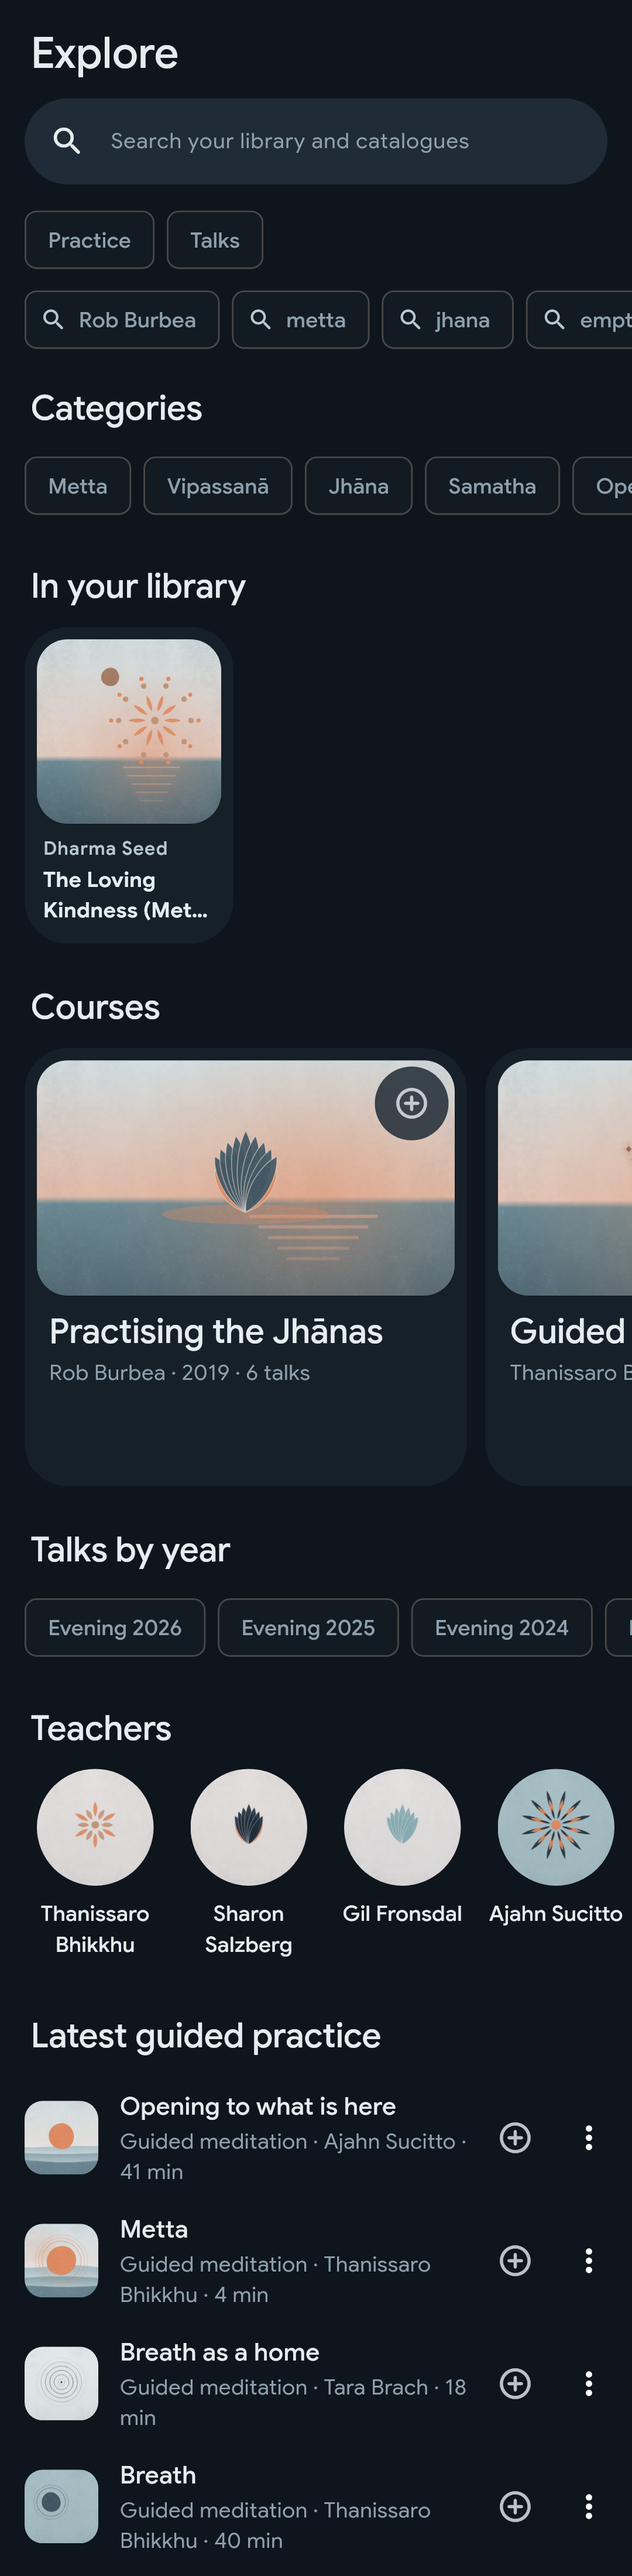
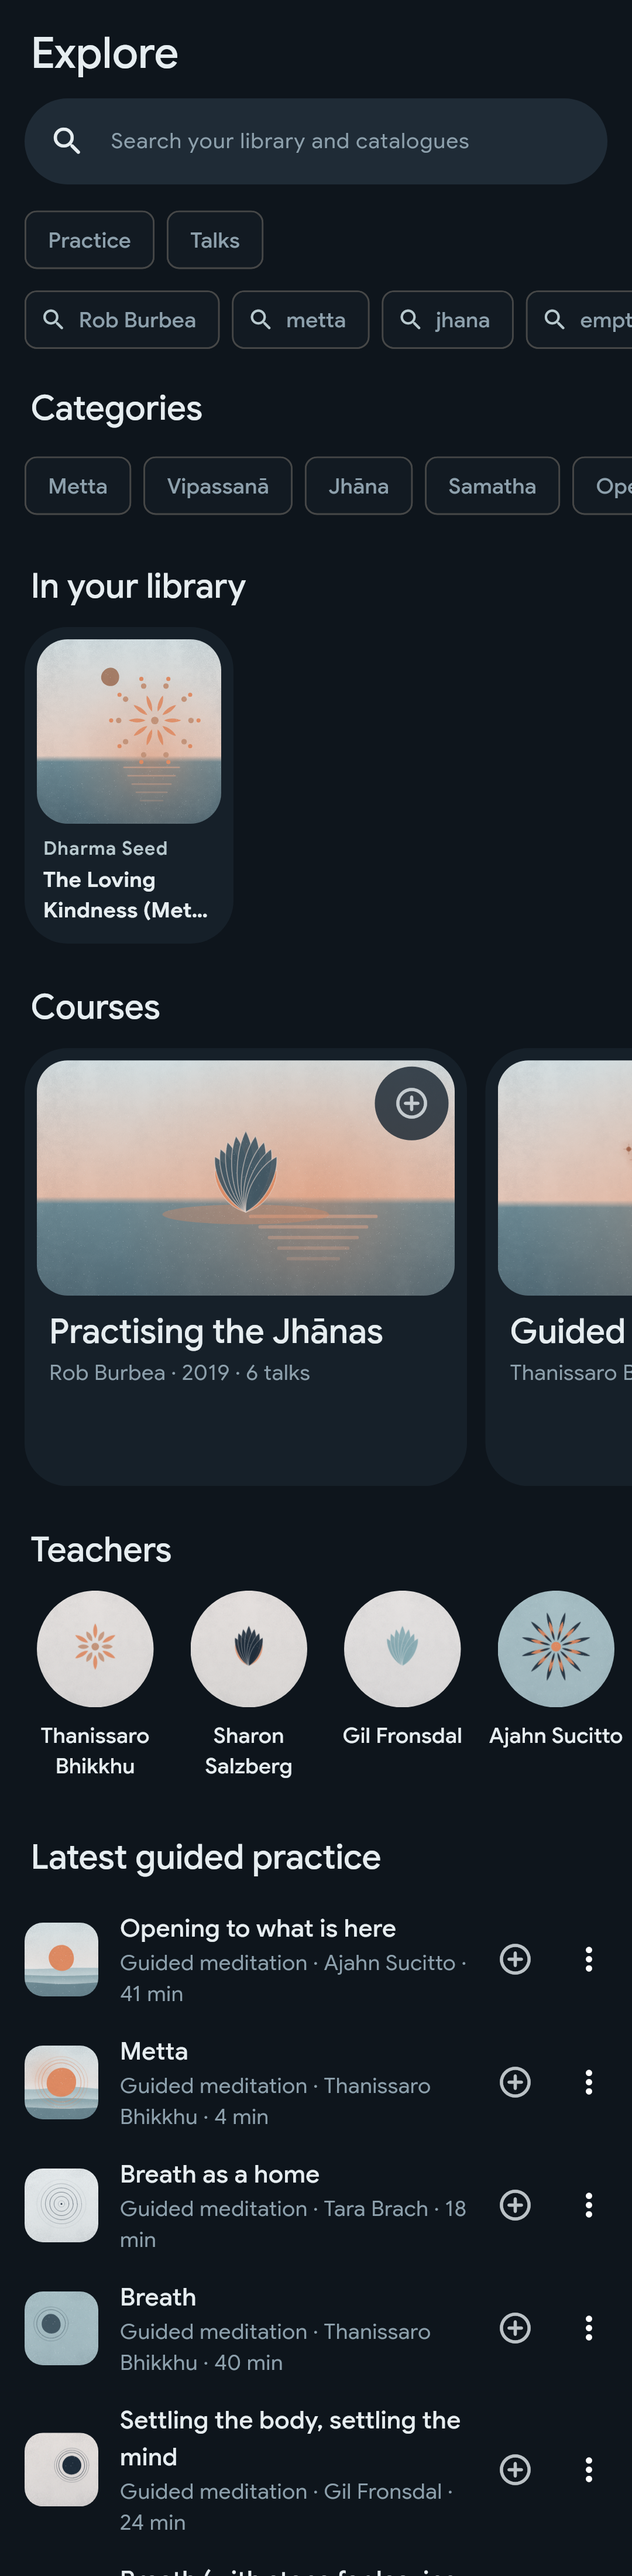
feat(dhammatalks): latest ten on the teacher page, compact year rows; screenshots
Verified: analyze clean; explore/source/merge suites pass; screenshots
teacher-thanissaro-{closed,open}-* show the page and one opened year.

diff --git a/test/screenshots/design_screenshots_test.dart b/test/screenshots/design_screenshots_test.dart
@@ -17,6 +17,8 @@ import 'package:medito/services/identity/palettes.dart';
 import 'package:medito/models/pack/pack_model.dart';
 import 'package:medito/providers/home/continue_provider.dart';
 import 'package:medito/services/dhammatalks/dhammatalks_catalogue.dart';
+import 'package:medito/services/dhammatalks/dhammatalks_ids.dart';
+import 'package:medito/views/teacher/teacher_view.dart';
 import 'package:medito/services/dhammatalks/dhammatalks_source.dart';
 import 'package:medito/services/dharma_seed/dharma_seed_database.dart';
 import 'package:medito/views/explore/widgets/explore_view.dart';
@@ -950,6 +952,49 @@ void main() {
       tester.view.physicalSize = const Size(1080, 4400);
       await DharmaSeedTestApp.settle(tester);
       await _capture(tester, '$name-full');
+    }, skip: !_enabled);
+
+    // Thanissaro Bhikkhu's page with the real bundled snapshot: the archive
+    // as closed years, then one year open.
+    testWidgets('Thanissaro page with the archive, ${brightness.name}', (
+      tester,
+    ) async {
+      final app = await DharmaSeedTestApp.create(tester, seed: false);
+      final snapshot = DtCatalogue.fromJson(
+        DtCatalogue.decode(
+          File('assets/dhammatalks/catalogue.json.gz').readAsBytesSync(),
+        ),
+      );
+      await app.pump(
+        tester,
+        _frame(brightness, const TeacherView(teacherId: dtTeacherId)),
+        dhammatalks: DhammatalksSource(
+          loadSnapshot: () async => snapshot,
+          library: app.library,
+        ),
+      );
+      await _phone(tester);
+      await DharmaSeedTestApp.settle(tester);
+      expect(tester.takeException(), isNull);
+      tester.view.physicalSize = const Size(1080, 4400);
+      await DharmaSeedTestApp.settle(tester);
+      await _capture(tester, 'teacher-thanissaro-closed-${brightness.name}');
+      final year = find.byKey(
+        ValueKey(
+          'archive_${dtYearId(DtChannel.evening, snapshot.years(DtChannel.evening).first)}',
+        ),
+      );
+      await tester.scrollUntilVisible(
+        year,
+        400,
+        scrollable: find.byType(Scrollable).first,
+      );
+      await tester.ensureVisible(year);
+      await tester.pump();
+      await tester.tap(year);
+      await DharmaSeedTestApp.settle(tester);
+      expect(tester.takeException(), isNull);
+      await _capture(tester, 'teacher-thanissaro-open-${brightness.name}');
     }, skip: !_enabled);
 
     for (final (name, page) in [

diff --git a/lib/services/dhammatalks/dhammatalks_source.dart b/lib/services/dhammatalks/dhammatalks_source.dart
@@ -425,11 +425,17 @@ class DhammatalksSource
     return CatalogueTeacherPage(
       teacher: _teacher(cat),
       courses: [for (final course in cat.courses) _courseItem(course)],
-      // The latest few; the rest is the archive, by year, opened on demand.
-      talks: [for (final talk in cat.talks.take(talkPage)) _talkItem(talk)],
+      // The latest ten, so the archive below them is not a long scroll away;
+      // the rest is the archive, by year, opened on demand.
+      talks: [
+        for (final talk in cat.talks.take(talkPage.clamp(0, _latestOnPage)))
+          _talkItem(talk),
+      ],
       archive: _archive(cat),
     );
   }
+
+  static const _latestOnPage = 10;
 
   @override
   Future<List<PackItemsModel>> archiveTalks(String groupId) async {

diff --git a/test/services/dhammatalks/dhammatalks_source_test.dart b/test/services/dhammatalks/dhammatalks_source_test.dart
@@ -141,7 +141,7 @@ void main() {
       ]);
       expect(page.archive.last.groups.map((g) => g.id), ['dt-year-m-2026']);
       // The talks of a group are not in the page: they load when it opens.
-      expect(page.talks.length, lessThanOrEqualTo(30));
+      expect(page.talks.length, lessThanOrEqualTo(10));
       expect(page.hasMoreTalks, isFalse);
     });
 

diff --git a/lib/views/teacher/teacher_view.dart b/lib/views/teacher/teacher_view.dart
@@ -298,6 +298,7 @@ class _TeacherViewState extends ConsumerState<TeacherView> {
       button: true,
       child: ListTile(
         key: ValueKey('archive_${group.id}'),
+        dense: true,
         title: Text(group.title),
         subtitle: Text(l10n.teacherTalkCount(group.talkCount)),
         trailing: Icon(

diff --git a/docs/fork/DECISIONS.md b/docs/fork/DECISIONS.md
@@ -988,7 +988,7 @@ Decisions 16, 18 and 19. Layout and hierarchy, not final visuals: colours come f
 Burooj: "The by year talks are very large. Is that the only way to access dhammatalks?" It was not, but the year chips were the most visible door, and each opened a list of hundreds.
 
 - **"Talks by year" is gone from Explore** (the strip, `CatalogueExplore.archives`, the `exploreArchives` string).
-- **Thanissaro Bhikkhu's page now holds the archive.** Top to bottom: counts, Save, bio, Courses (the eight collections), **Latest talks** (the newest 30, no Show more), then **Archive**. Archive has an **Evening | Morning** switch and, under it, the years newest first as **closed rows** ("2025 · 214 talks"). Tapping a row reads that year's talks and builds them (`SliverList.builder`, so only the visible rows), tapping again closes it. Nothing renders hundreds of rows at once on open; the largest thing built is one opened year, and only its visible rows.
+- **Thanissaro Bhikkhu's page now holds the archive.** Top to bottom: counts, Save, bio, Courses (the eight collections), **Latest talks** (the newest ten, no Show more: any more and the archive would sit a long scroll below them), then **Archive**. Archive has an **Evening | Morning** switch and, under it, the years newest first as **closed, compact rows** ("2025 · 214 talks"). Tapping a row reads that year's talks and builds them (`SliverList.builder`, so only the visible rows), tapping again closes it. Nothing renders hundreds of rows at once on open; the largest thing built is one opened year, and only its visible rows.
 - **My call, evening and morning: a switch, not a label on each row.** One group per year with both channels mixed would be a bigger list under each year (a year holds hundreds of evening talks), would need a label on every row, and would hide which channel a year belongs to. The switch halves each list and matches how the site files them. **Cost:** a morning talk is one more tap away (switch, then year). Morning is the shorter list (3,829 talks); evening shows first because it is most of the archive (5,482). Changing it is one place (`_archive` in the source and `_archive` in `teacher_view.dart`).
 - **Generic, not a dhammatalks special-case:** `CatalogueTeacherPage.archive` (sections of groups) and `CatalogueSource.archiveTalks(groupId)`. Dharma Seed and Hermes Amāra have no archive (empty), so their pages are unchanged. For a source with an archive the page's talks list is only the latest few and its heading reads "Latest talks"; the section names ("Evening", "Morning") come from the source in English, like its course titles ("Guided meditations"). New strings: `teacherArchive`, `teacherLatestTalks` (de, es translated).
 - **Kept:** the year pack (`dt-year-e-2025`) and year-link resolution in the source. A pasted year link still resolves and is still "not found" for import; nothing in the UI opens a year page any more, so it is a candidate for removal if you want it gone.
